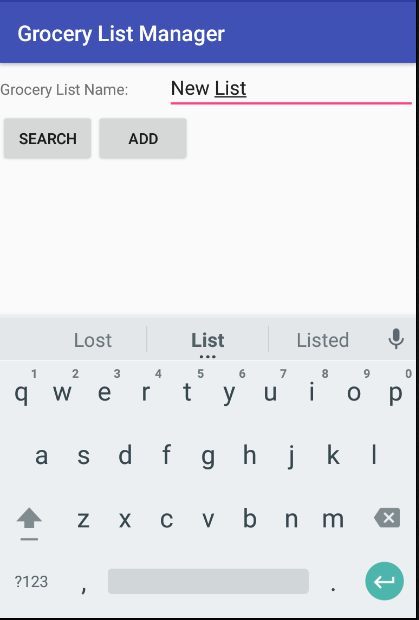
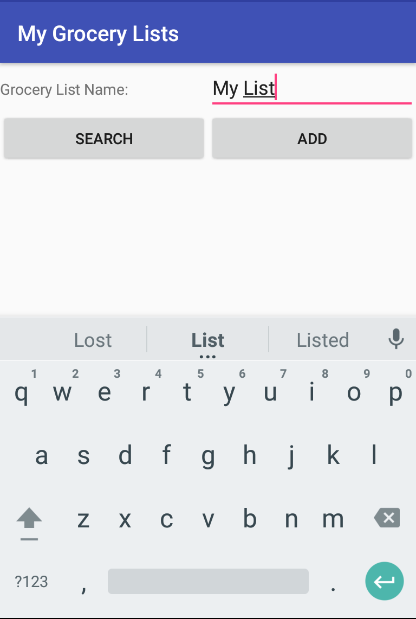
Edit Screenshots for User Manual

diff --git a/GroupProject/Docs/UserManual.md b/GroupProject/Docs/UserManual.md
@@ -62,7 +62,7 @@ The Grocery List Manager starts with a prompt to create or select a Grocery List
 
 Create a list by typing a list name into the box and selecting the Add button.
 
-In the photos below we create a new list named "New List":
+In the photos below we create a new list named "My List":
 
 
 ![Enter List Name](https://github.gatech.edu/gt-omscs-se-2016fall/6300Fall16Team61/blob/master/GroupProject/Docs/UserManualImages/Create-New-Grocery-List1.PNG)
@@ -86,13 +86,14 @@ Once you're home, you can reset the list by removing all check marks.
 #### 4.2.1 Rename the list
 If you're ready to change the name of the list, use the Rename button, at the top of the screen.
 
-In the photos below we change the name of "New List" to "The List":
+In the photos below we change the name of "My List" to "The List":
 
 
-![Fill List Name box ](https://github.gatech.edu/gt-omscs-se-2016fall/6300Fall16Team61/blob/master/GroupProject/Docs/UserManualImages/Rename-Grocery-List1.PNG)
+![Current List Name](https://github.gatech.edu/gt-omscs-se-2016fall/6300Fall16Team61/blob/master/GroupProject/Docs/UserManualImages/Rename-Grocery-List1.PNG)
 
+![Edit The List Name](https://github.gatech.edu/gt-omscs-se-2016fall/6300Fall16Team61/blob/master/GroupProject/Docs/UserManualImages/Rename-Grocery-List2.PNG)
 
-![Click Rename once List Name is Ready](https://github.gatech.edu/gt-omscs-se-2016fall/6300Fall16Team61/blob/master/GroupProject/Docs/UserManualImages/Rename-Grocery-List2.PNG)
+![Click Rename once List Name is Ready](https://github.gatech.edu/gt-omscs-se-2016fall/6300Fall16Team61/blob/master/GroupProject/Docs/UserManualImages/Rename-Grocery-List3.PNG)
 
 #### 4.2.1 Delete the list
 
